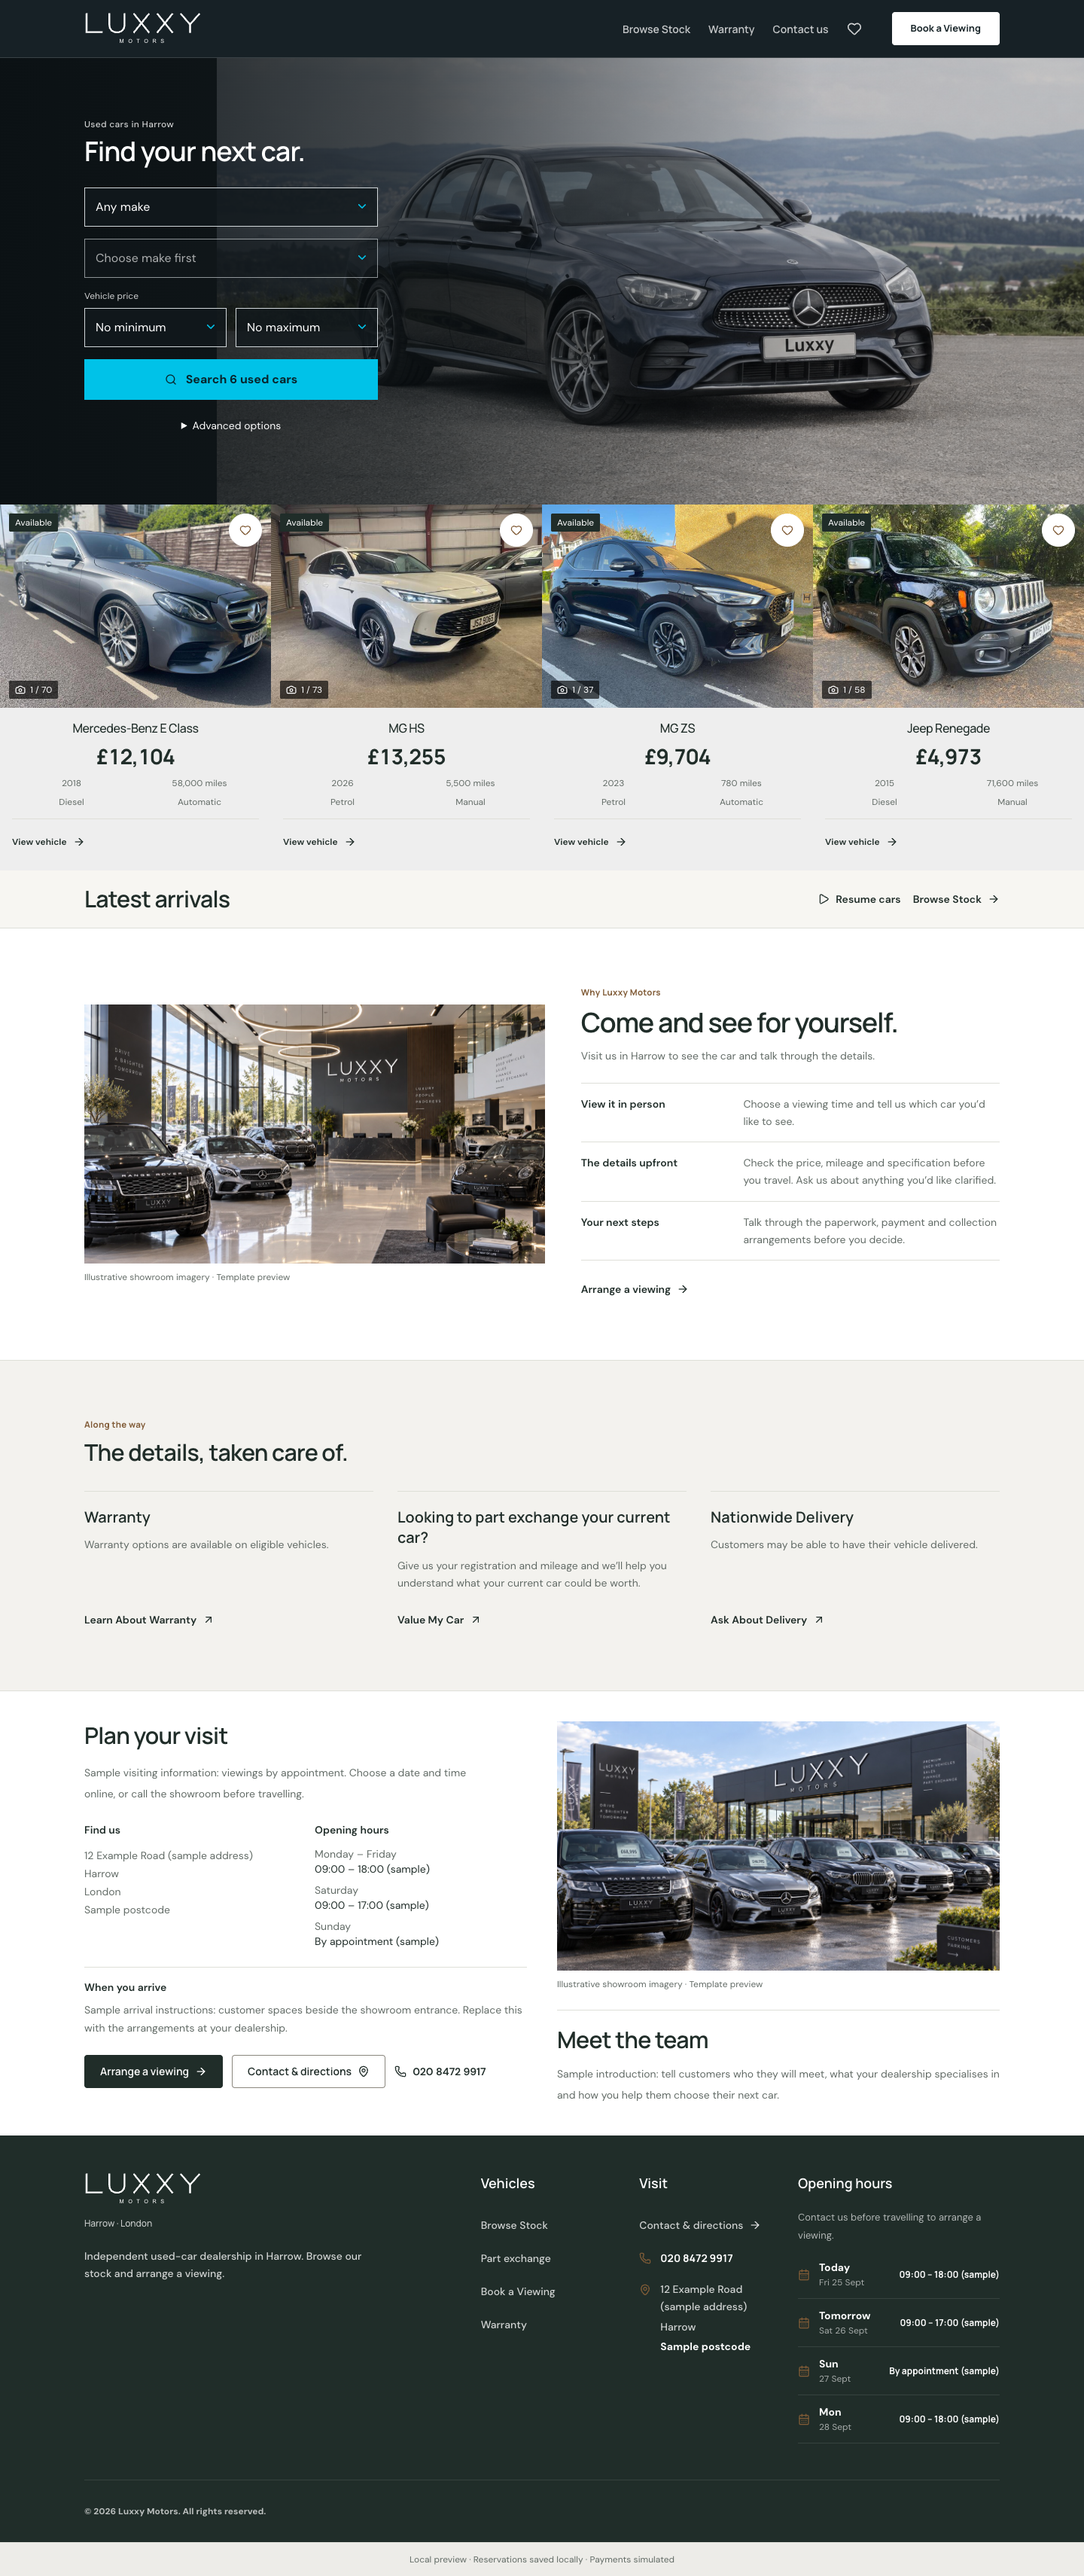
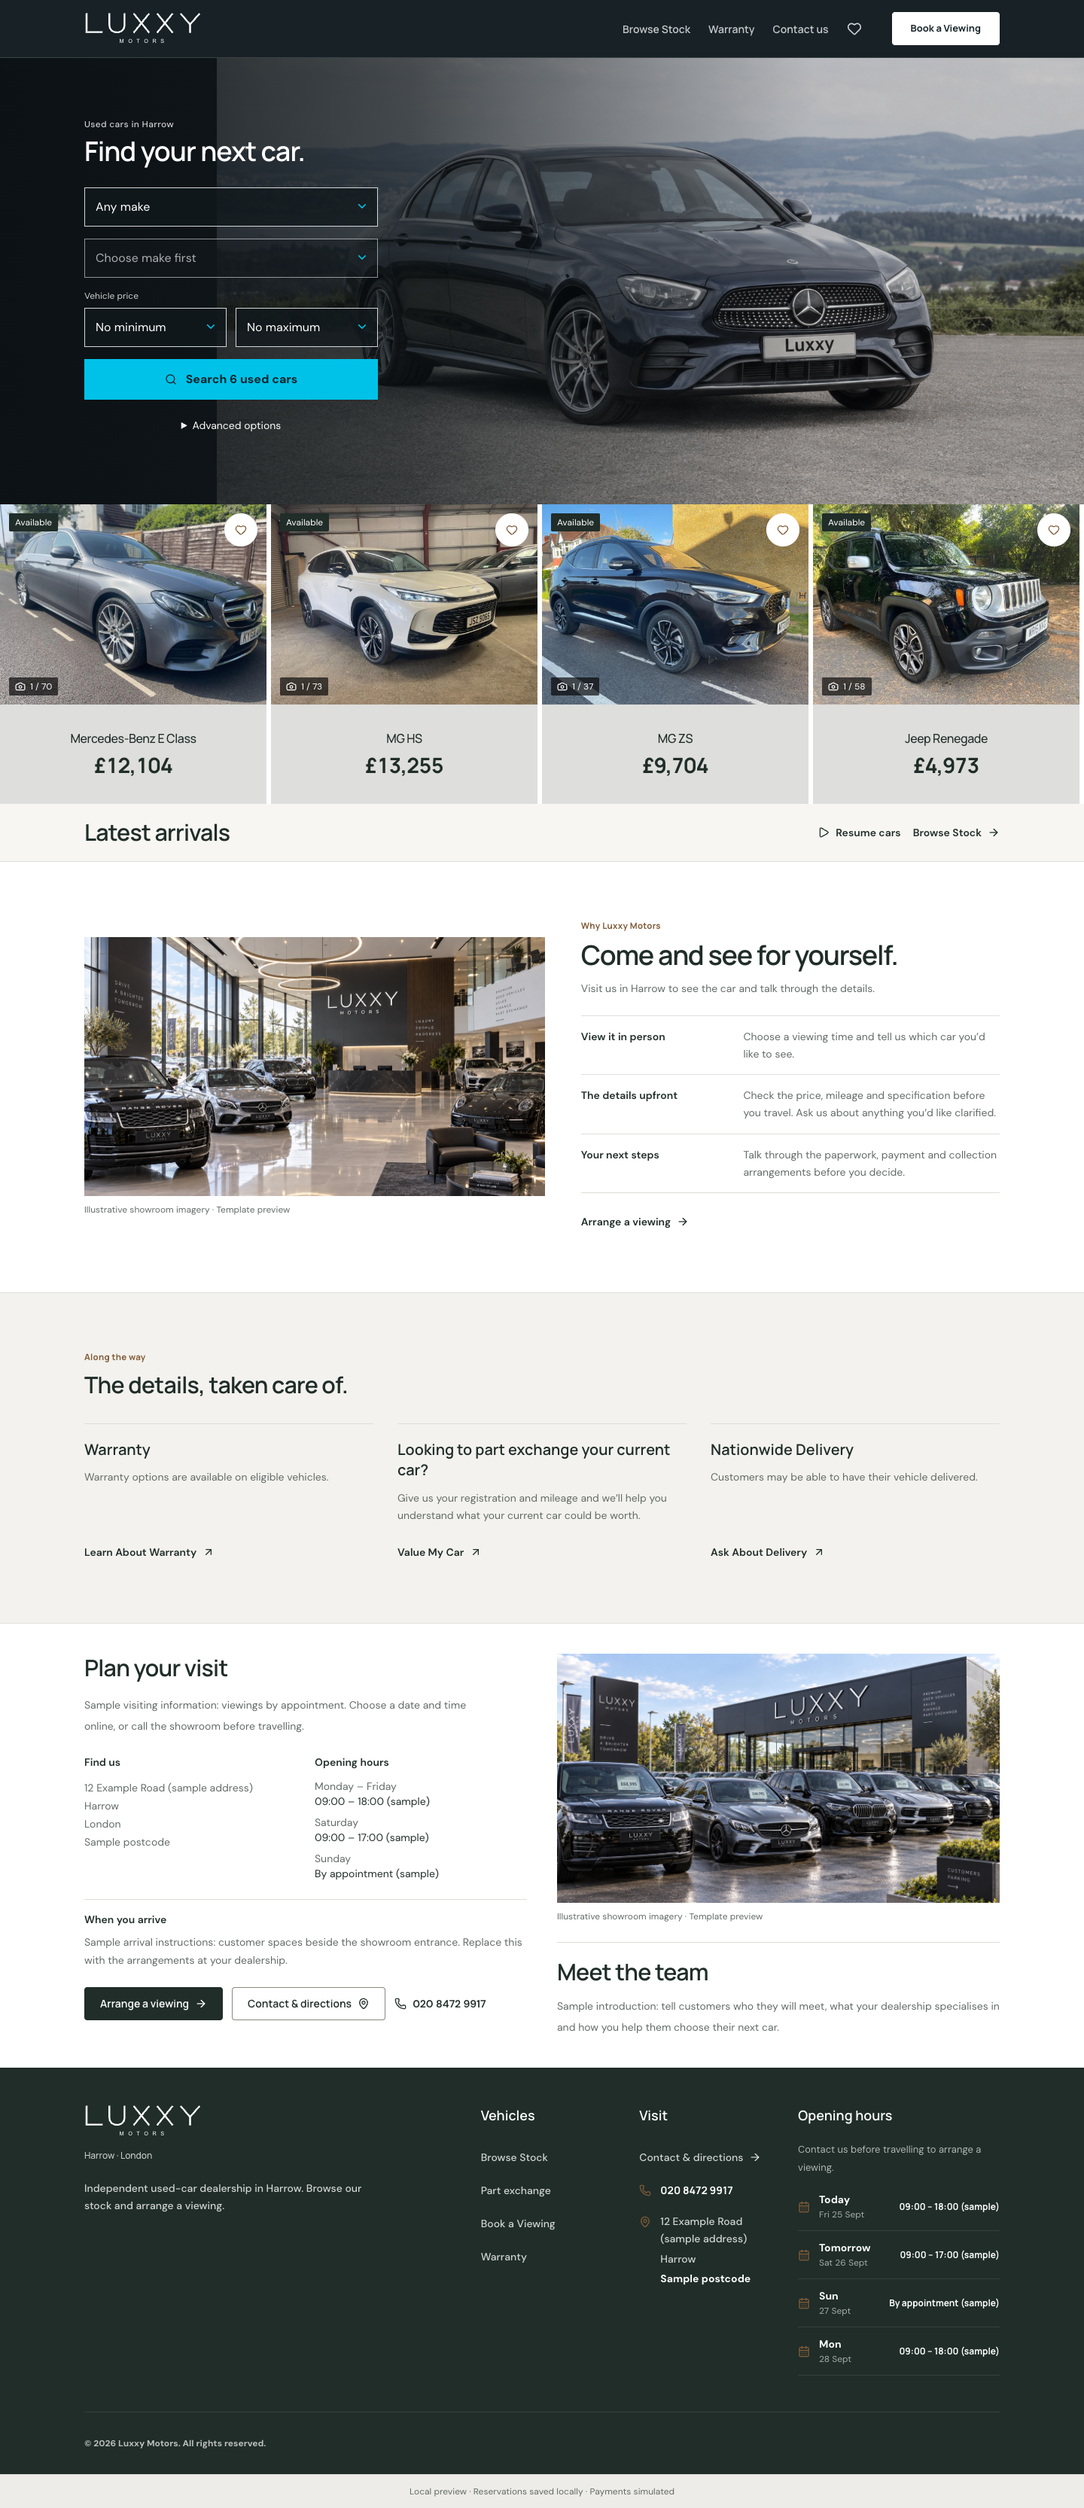
Style homepage featured cars as individual photo and price boxes

diff --git a/artifacts/luxxy-motors/src/index.css b/artifacts/luxxy-motors/src/index.css
@@ -351,3 +351,29 @@
  .browse-stock .stock-toolbar { position: sticky; top: var(--site-header-height); z-index: 30; }
  .stock-toolbar-expanded { max-height: calc(100dvh - var(--site-header-height) - 190px); overflow-y: auto; overscroll-behavior: contain; padding-bottom: 12px; }
 }
+
+/* Homepage feature boxes: photography above a quiet name-and-price panel. */
+.rolling-stock .vehicle-card {
+ border: 0;
+ border-right: 6px solid white;
+ border-radius: 0;
+ background: #dededc;
+ box-sizing: border-box;
+}
+.rolling-stock .vehicle-card-details {
+ flex: 1;
+ justify-content: center;
+ min-height: 132px;
+ padding: 22px 16px;
+ background: #dededc;
+ text-align: center;
+}
+.rolling-stock .vehicle-card-heading h3 { font-size: 1rem; font-weight: 500; }
+.rolling-stock .vehicle-card-details > div:nth-child(2) { justify-content: center; margin-top: 8px; }
+.rolling-stock .luxxy-price { font-size: 1.875rem; line-height: 1.2; }
+.rolling-stock .vehicle-specs { display: none; }
+.rolling-stock .vehicle-card-actions { display: none; }
+@media (max-width: 639px) {
+ .rolling-stock .vehicle-card { border-right-width: 4px; }
+ .rolling-stock .vehicle-card-details { min-height: 112px; padding: 18px 14px; }
+}

diff --git a/artifacts/luxxy-motors/src/components/car-card.tsx b/artifacts/luxxy-motors/src/components/car-card.tsx
@@ -177,7 +177,7 @@ export function CarCard({
           </span>
         )}
       </div>
-      <div className={cn('flex min-w-0 flex-1 flex-col p-4', isRow && 'md:p-6')}>
+      <div className={cn('vehicle-card-details flex min-w-0 flex-1 flex-col p-4', isRow && 'md:p-6')}>
         <div className="flex flex-wrap items-start justify-between gap-2">
           <div
             className={cn(
@@ -222,7 +222,7 @@ export function CarCard({
           </p>
         )}
         <div
-          className="mt-auto flex flex-wrap items-center justify-between gap-1 border-t border-border pt-2"
+          className="vehicle-card-actions mt-auto flex flex-wrap items-center justify-between gap-1 border-t border-border pt-2"
           data-testid={isCompact ? `compact-actions-${car.id}` : undefined}
         >
           <Link href={detailHref} onClick={recordVehicleOpen} className="text-link text-xs">

diff --git a/docs/ui-redesign.md b/docs/ui-redesign.md
@@ -630,3 +630,6 @@ Changed the continuous marquee to one-card smooth advances every four seconds, r
 Applied the five agreed improvements: three larger desktop cards per row; a single search/filter/sort toolbar without the redundant View matching cars action; one horizontally scrollable applied-filter row with Clear all; left-aligned names and prominent prices with muted specifications; and a sticky mobile toolbar below the site header. Expanded mobile filters have a bounded scroll area so all fields remain reachable. Kept Enter-to-results keyboard behaviour and existing live filtering, stock/list controls, photos and saved-car actions.
 
 Validation: all 168 frontend tests, both new 390px/1440px browser scenarios, full workspace typechecking and builds passed. Browser coverage checks the three-column arrangement, mobile sticky position, live make filtering, price sorting and clearing all filters. Fresh screenshots reviewed in docs/screenshots/browse-stock-refinement. Existing bundle-size warning remains. No backend or production changes.
+
+### Homepage feature boxes
+Matched the supplied reference with individual square car boxes, narrow white vertical separators, large photography and grey centred name/price panels. Simplified only the homepage boxes by omitting specification/action rows; photographs and names still link to details, with save and photo controls retained. Four desktop boxes, mobile swiping, stepped motion and the flush hero join remain. Browse Stock styling is unchanged. Workspace typechecking/build and three desktop/mobile carousel/search browser checks passed; fresh homepage screenshots inspected.
